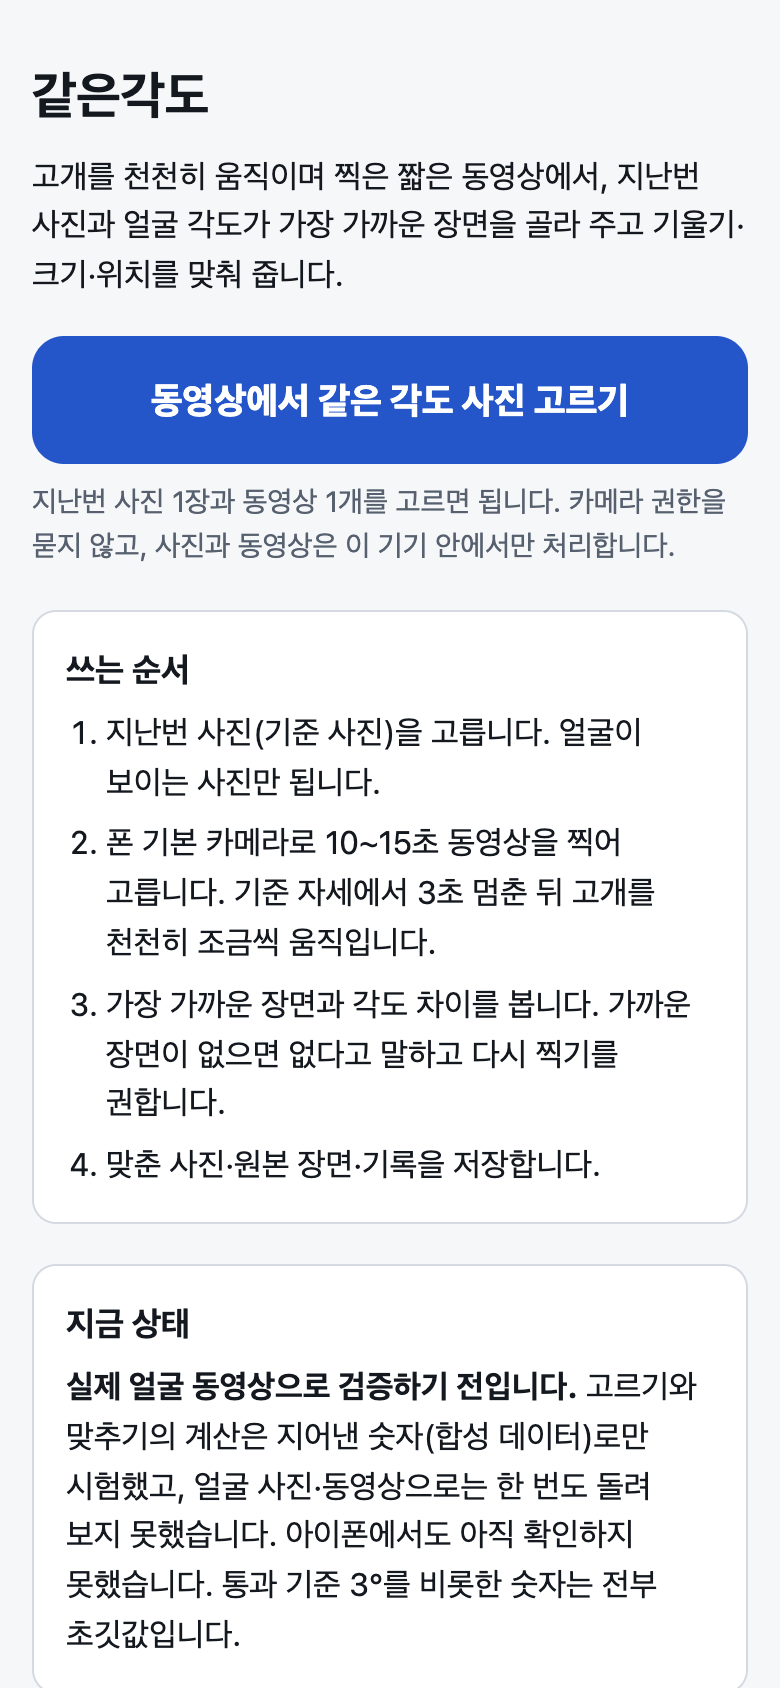
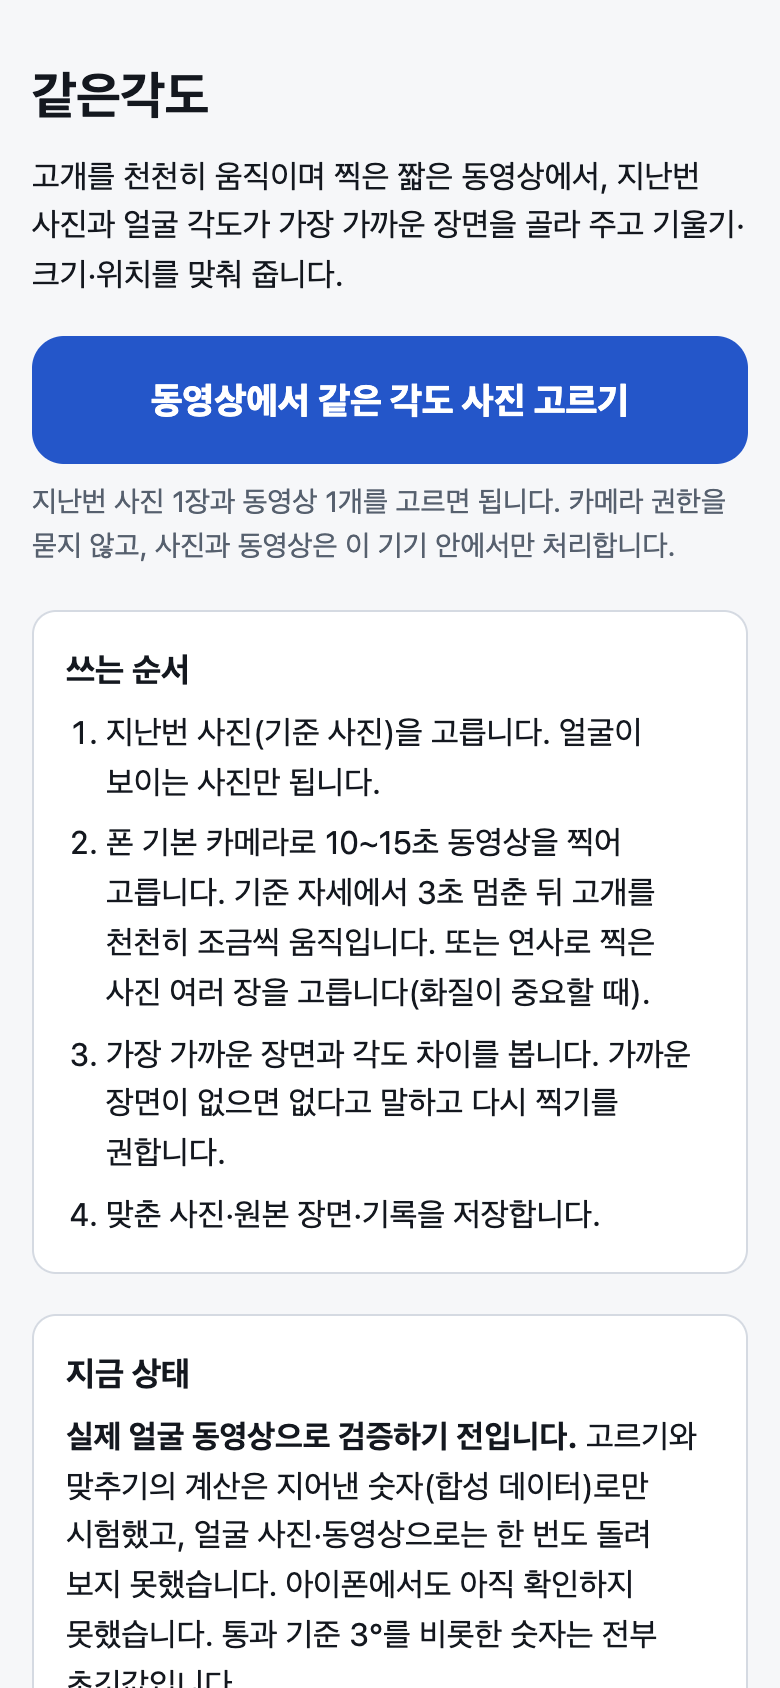
README 화면 사진: 연사 사진 입력이 생긴 지금 화면으로 다시 찍음
10-03 에 '사진 여러 장(연사)에서 고르기'가 더해지면서 단계 이름
('2. 동영상·사진')과 첫 화면 '쓰는 순서' 문장이 바뀌었는데, README
사진은 그 전 화면이었다. 읽는 사람이 보는 사진과 실제 화면이 같도록
첫 화면·결과·겹쳐 보기를 다시 찍고, 동영상/사진 여러 장 두 선택지가
보이는 ② 단계 사진을 더했다.

- 결과·겹쳐 보기는 코드로 그린 얼굴 그림 1장과 그 그림으로 만든 사진
  22장을 연사 자리에 넣어 찍었다. 사람 사진은 없다.
- 가까운 장면이 없을 때 사진은 저장소에 없는 가짜 모드로 찍은 것이라
  그대로 둔다.
- 어디서도 쓰지 않던 2-spike.png 는 지운다.

Changed region(s): [[0.0923, 0.7701, 0.8923, 1.0], [0.0923, 0.5545, 0.8923, 0.7393]]

diff --git a/README.md b/README.md
@@ -6,11 +6,11 @@
 
 **주소:** https://same-angle.vercel.app (고르는 화면: https://same-angle.vercel.app/pick/)
 
-| ① 첫 화면 | ② 고른 결과 | ③ 겹쳐 보기 | ④ 가까운 장면이 없을 때 |
-|---|---|---|---|
-| [<img src="docs/screens/1-home.png" width="190" alt="첫 화면: 동영상에서 같은 각도 사진 고르기 버튼과 쓰는 순서">](docs/screens/1-home.png) | [<img src="docs/screens/3-pick-result.png" width="190" alt="결과 화면: 기준 사진과 이번 사진을 나란히, 그 아래 차이 숫자">](docs/screens/3-pick-result.png) | [<img src="docs/screens/4-pick-overlay.png" width="190" alt="기준 사진 위에 이번 사진을 겹쳐 본 화면과 진하기 조절">](docs/screens/4-pick-overlay.png) | [<img src="docs/screens/5-pick-noclose.png" width="190" alt="가까운 장면이 없습니다: 다시 찍기 권장과 동영상이 지나간 방향 그림">](docs/screens/5-pick-noclose.png) |
+| ① 첫 화면 | ② 동영상·사진 고르기 | ③ 고른 결과 | ④ 겹쳐 보기 | ⑤ 가까운 장면이 없을 때 |
+|---|---|---|---|---|
+| [<img src="docs/screens/1-home.png" width="150" alt="첫 화면: 동영상에서 같은 각도 사진 고르기 버튼과 쓰는 순서">](docs/screens/1-home.png) | [<img src="docs/screens/2-pick-input.png" width="150" alt="2단계 동영상·사진: 동영상 고르기, 지금 바로 찍기, 사진 여러 장 고르기(연사) 버튼">](docs/screens/2-pick-input.png) | [<img src="docs/screens/3-pick-result.png" width="150" alt="결과 화면: 기준 사진과 이번 사진을 나란히, 그 아래 차이 숫자">](docs/screens/3-pick-result.png) | [<img src="docs/screens/4-pick-overlay.png" width="150" alt="기준 사진 위에 이번 사진을 겹쳐 본 화면과 진하기 조절">](docs/screens/4-pick-overlay.png) | [<img src="docs/screens/5-pick-noclose.png" width="150" alt="가까운 장면이 없습니다: 다시 찍기 권장과 동영상이 지나간 방향 그림">](docs/screens/5-pick-noclose.png) |
 
-②③은 코드로 그린 얼굴 그림과, 그 그림을 기울이고 옮겨 만든 동영상을 넣어 맥 크롬에서 돌린 화면입니다. ④는 지어낸 숫자로 그린 화면입니다. 사람 사진은 없습니다.
+②③④는 코드로 그린 얼굴 그림 1장과, 그 그림을 기울이고 옮겨 만든 사진 22장을 연사 사진 자리에 넣어 맥 크롬에서 돌린 화면입니다. ⑤는 지어낸 숫자로 그린 화면입니다. 사람 사진은 없습니다.
 
 ## 2026-10-02 에 바뀐 것
 
